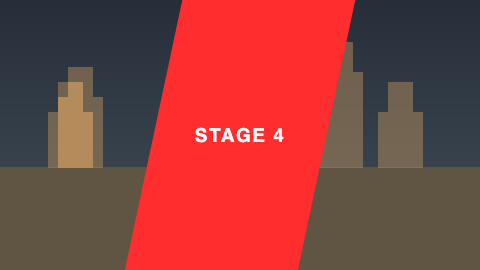
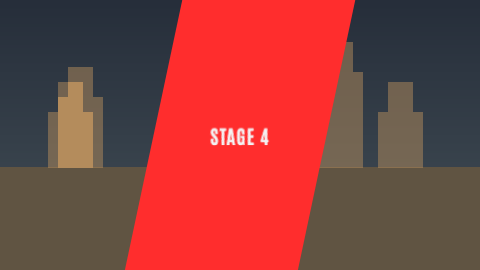
fix(stings): the IR refuses a kind outside the grammar; the wipe draws in the bundled face, clipped to the band (#1245)
Review of the branch: turning TransitionKind into str removed the only
check on the MCP export path, so Transition.__post_init__ runs
validate_transition_kind (and the MCP tool checks before it looks for a
trim). The shipped template named Antonio and Geist, which the engine
stylesheet never declares, so the label drew in the host's system font;
it is Splitsmith Display now, with the band clipping a long label
instead of spilling across the footage. Thumbnail re-rendered.

Claude-Session: https://claude.ai/code/session_01VCQ8nkv5ThoQFsacWVUC4d

Changed region(s): [[0.4062, 0.4741, 0.5938, 0.563]]

diff --git a/src/splitsmith/data/looks/splitsmith/sting-wipe.html b/src/splitsmith/data/looks/splitsmith/sting-wipe.html
@@ -5,10 +5,12 @@
 <title>sting wipe</title>
 <script>
   // The shipped sting (#1245): an accent band sweeps across the cut,
-  // opaque at the seam, carrying the logo the shooters share or, when
-  // they have none in common, the name of what comes next. The engine
-  // stylesheet is loaded for its font faces; nothing of the cell markup
-  // is used. seek() drives the Web Animations frame by frame.
+  // opaque at the seam, carrying the one logo the shooters have between
+  // them (one shooter's own, or the match logo folded into each) or,
+  // when there is none or more than one, the name of what comes next.
+  // The engine stylesheet is loaded for its font faces (the bundled
+  // "Splitsmith Display"); nothing of the cell markup is used. seek()
+  // drives the Web Animations frame by frame.
   document.write('<style>' + window.splitsmith.engine.css + '</style>');
 </script>
 <style>
@@ -16,6 +18,7 @@
   .sting-band {
     position: absolute; top: -12%; height: 124%;
     display: flex; align-items: center; justify-content: center;
+    overflow: hidden;
     will-change: transform;
   }
   .sting-content {
@@ -24,8 +27,11 @@
   }
   .sting-content img { height: 34%; width: auto; max-width: 70%; object-fit: contain; }
   .sting-label {
-    font-family: "Antonio", "Geist", sans-serif; font-weight: 700;
-    text-transform: uppercase; letter-spacing: 0.08em; white-space: nowrap;
+    /* The engine stylesheet declares these faces from the bundled TTFs, so
+       the label draws the same on every machine. */
+    font-family: "Splitsmith Display", sans-serif; font-weight: 700;
+    text-transform: uppercase; letter-spacing: 0.06em; white-space: nowrap;
+    max-width: 80%; overflow: hidden; text-overflow: ellipsis; text-align: center;
   }
 </style>
 </head>

diff --git a/tests/test_look_template.py b/tests/test_look_template.py
@@ -517,3 +517,74 @@ def test_the_shipped_sting_shows_one_logo_only_when_the_shooters_share_it(tmp_pa
         pytest.skip(f"no Chromium: {exc}")
     assert counts["one"] > 100 and counts["shared"] > 100, counts
     assert counts["different"] == 0, counts
+
+
+def test_the_shipped_sting_names_only_fonts_the_engine_declares() -> None:
+    """Review of #1245: the template loads the engine stylesheet for its
+    font faces, so every family it names must be one of them, or the
+    label draws in whatever the host has and the pixels stop being
+    deterministic across machines."""
+    import re
+
+    from splitsmith.overlay_html import single_css
+    from splitsmith.overlay_layout import CellScale
+
+    look = looks.load_look("splitsmith")
+    template = looks.sting_template_for(look, "wipe")
+    assert template is not None
+    css = single_css(width=640, height=360, scale=CellScale.for_cell(360), theme=load_theme("splitsmith"))
+    declared = set(re.findall(r'@font-face\s*\{[^}]*font-family:\s*"([^"]+)"', css))
+    assert declared, "the engine declares its faces"
+    named = set()
+    for value in re.findall(r"font-family:\s*([^;]+);", template.read_text(encoding="utf-8")):
+        named |= set(re.findall(r'"([^"]+)"', value))
+    assert named and named <= declared, (named, declared)
+
+
+@pytest.mark.integration
+def test_the_shipped_sting_keeps_a_long_label_inside_the_band(tmp_path) -> None:
+    """Review of #1245: a long stage name must not spill across the
+    footage either side of the band. At the poster the band sits in the
+    middle of the frame; the outer columns stay free of the label's ink."""
+    import io
+
+    from PIL import Image
+
+    from splitsmith.look_sting import sting_context
+    from splitsmith.overlay_raster import ChromiumRasterizer, RasterizerUnavailableError
+    from splitsmith.overlay_theme import theme_for
+
+    look = looks.load_look("splitsmith")
+    template = looks.sting_template_for(look, "wipe")
+    assert template is not None
+    ctx = sting_context(
+        kind="sting:wipe",
+        seconds=1.0,
+        from_label="Stage 6",
+        to_label="Stage 7 - The Very Long Corridor Of Doom And Despair",
+        width=640,
+        height=360,
+        fps=30,
+        theme=theme_for(look),
+        shooters=(),
+    )
+    try:
+        with ChromiumRasterizer() as rasterizer:
+            png = rasterizer.render_template(template, context=ctx, width=640, height=360)
+    except RasterizerUnavailableError as exc:
+        pytest.skip(f"no Chromium: {exc}")
+    with Image.open(io.BytesIO(png)) as im:
+        rgba = im.convert("RGBA")
+        width, height = rgba.size
+        raw = rgba.tobytes()
+    ink_outside = 0
+    ink_total = 0
+    for y in range(height):
+        for x in range(width):
+            r, g, b, a = raw[(y * width + x) * 4 : (y * width + x) * 4 + 4]
+            if a > 200 and r > 200 and g > 200 and b > 200:
+                ink_total += 1
+                if x < width * 0.15 or x > width * 0.85:
+                    ink_outside += 1
+    assert ink_total > 50, "the label is drawn"
+    assert ink_outside == 0, f"{ink_outside} label pixels outside the band's reach"

diff --git a/src/splitsmith/composition.py b/src/splitsmith/composition.py
@@ -233,7 +233,7 @@ def validate_transition_kind(kind: str, *, allow_none: bool = True) -> str:
         return kind
     raise ValueError(
         f"transition kind {kind!r} is not 'none', an xfade ({', '.join(XFADE_KINDS)}), an FCP effect "
-        f"({', '.join(FCP_KINDS)}) or 'sting:<name>' (lower-case letters, digits, '-' and '_')"
+        f"({', '.join(FCP_KINDS)}) or 'sting:<name>' (a letter, then letters, digits, '-' and '_')"
     )
 
 
@@ -292,6 +292,13 @@ class Transition:
     kind: TransitionKind = "zoom"
     duration_seconds: float = 0.5
     color: str | None = None  # reserved for future colour-bearing kinds
+
+    def __post_init__(self) -> None:
+        # The IR is the last gate before ``kind`` reaches ffmpeg's filter
+        # graph (``xfade=transition=<kind>``): a caller that skipped the
+        # request validators (the MCP tool annotates the open string) is
+        # refused here, with the same message (review of #1245).
+        validate_transition_kind(self.kind, allow_none=False)
 
 
 TitleStyle = Literal["slate", "lower-third"]

diff --git a/tests/test_composition.py b/tests/test_composition.py
@@ -544,3 +544,18 @@ def test_validate_transition_kind_refuses_everything_else(kind: str) -> None:
 def test_validate_transition_kind_can_refuse_none() -> None:
     with pytest.raises(ValueError):
         composition.validate_transition_kind("none", allow_none=False)
+
+
+def test_a_transition_refuses_a_kind_outside_the_grammar() -> None:
+    """Review of #1245: the IR is the last gate before ffmpeg's filter
+    graph, so a caller that skipped the request validators (the MCP tool
+    annotates the open string) still cannot put arbitrary text into
+    ``xfade=transition=``."""
+    for kind in ("bogus", "sting:", "none", "fade[x];movie=/etc/passwd"):
+        with pytest.raises(ValueError, match="transition kind"):
+            composition.Transition(from_stage_index=0, to_stage_index=1, kind=kind)
+    with pytest.raises(ValueError, match="transition kind"):
+        composition.uniform_transitions("bogus", 1.0, 2)
+    assert (
+        composition.Transition(from_stage_index=0, to_stage_index=1, kind="sting:wipe").kind == "sting:wipe"
+    )

diff --git a/tests/test_mcp_export_tools.py b/tests/test_mcp_export_tools.py
@@ -394,3 +394,14 @@ def test_export_match_rejects_stage_without_beep(tmp_path: Path) -> None:
     project.save(root)
     with pytest.raises(ValueError, match="no primary or no beep"):
         export_tools.export_match_tool(str(root), stage_numbers=[1])
+
+
+def test_export_match_rejects_a_transition_kind_outside_the_grammar(tmp_path: Path) -> None:
+    """Review of #1245: ``TransitionKind`` is an open string, so the MCP
+    schema no longer refuses a bad kind; the IR does, before any ffmpeg."""
+    root, _src = _seed_export_project(tmp_path)
+    for kind in ("bogus", "sting:"):
+        with pytest.raises(ValueError, match="transition kind"):
+            export_tools.export_match_tool(
+                str(root), stage_numbers=[1], output_format="mp4", transition_kind=kind
+            )

diff --git a/src/splitsmith/mcp/export_tools.py b/src/splitsmith/mcp/export_tools.py
@@ -25,6 +25,7 @@ from datetime import UTC, datetime
 from pathlib import Path
 from typing import Any, Literal
 
+from .. import composition
 from .. import templates as templates_module
 from ..config import Config
 from ..config import StageData as EngineStageData
@@ -244,6 +245,9 @@ def export_match_tool(
     Anomalies are non-fatal warnings the engine surfaced (e.g. a
     stage exported without shots, an intro file missing).
     """
+    # Before any artefact is looked for: the open kind is refused here as
+    # the request bodies refuse it, not after a trim turned out missing.
+    composition.validate_transition_kind(transition_kind)
     if not stage_numbers:
         raise ValueError("stage_numbers cannot be empty")
     root = resolve_project_root(project_root)

diff --git a/CLAUDE.md b/CLAUDE.md
@@ -282,7 +282,10 @@ resolves it against the Look and the shipped default, with no fallback to
 another variant). ``TransitionKind`` is therefore an open ``str``;
 ``composition.validate_transition_kind`` is the one grammar check and the
 request bodies, ``ExportPresetBody`` and both CLIs run it, so ``sting:``
-alone or an unknown closed kind is still a 422 / usage error. Both
+alone or an unknown closed kind is still a 422 / usage error, and
+``Transition.__post_init__`` runs it again so a caller that skipped them
+(the MCP tool annotates the open string) never puts text into
+``xfade=transition=``. Both
 renderers decide a sting while deciding the boundary (``sting_for_boundary``
 in each driver): ``look_sting.sting_motion`` loads the template with
 ``data.transition`` (kind, name, duration, the labels either side of the
@@ -295,8 +298,10 @@ whatever handle the edges had; the single-shooter cache keys it by
 frame. A sting the Look lacks, or one with no browser, is a fade plus a
 degradation naming it; frames that fail are a cut like any failed
 boundary. Without a sting every argv is unchanged. The shipped
-``sting-wipe.html`` sweeps an accent band across the seam carrying the one
-logo the shooters share (``distinct logos == 1``) or the next item's name;
+``sting-wipe.html`` sweeps an accent band across the seam carrying a logo
+when the shooters have exactly one distinct logo between them (one
+shooter's own, or the match logo folded into each) or the next item's
+name, clipped to the band in the bundled display face;
 ``window.duration()`` returns the transition's length, so the renderer
 samples exactly the boundary. The FCPXML path substitutes zoom with an
 anomaly; the gallery tile is ``sting:wipe`` (MP4, both modes), its

diff --git a/docs/superpowers/specs/2026-10-06-rendered-video-first-design.md b/docs/superpowers/specs/2026-10-06-rendered-video-first-design.md
@@ -206,8 +206,9 @@ cache key is both neighbours' argv plus the transition.
 > and `TransitionKind` is an open string validated by
 > `composition.validate_transition_kind`. The template receives
 > `data.transition` (kind, name, duration, the labels either side of the
-> cut) and `data.shooters`; the shipped wipe carries the one logo the
-> shooters share or the next item's name.
+> cut) and `data.shooters`; the shipped wipe carries a logo when the
+> shooters have exactly one distinct logo between them (one shooter's
+> own, or the match logo folded into each), else the next item's name.
 
 ## 4. Export page, Footage page, API
 
